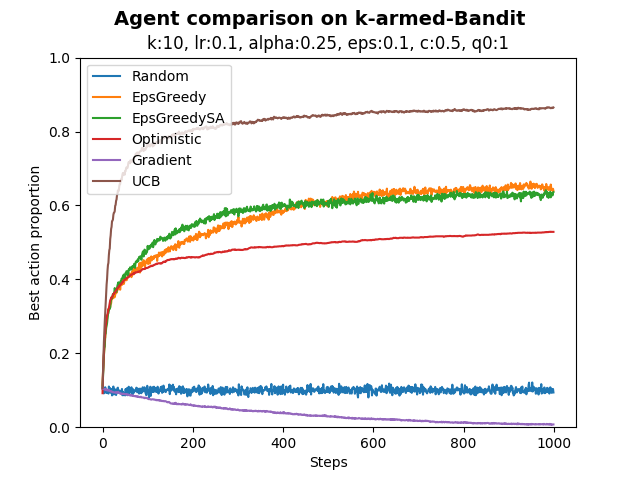
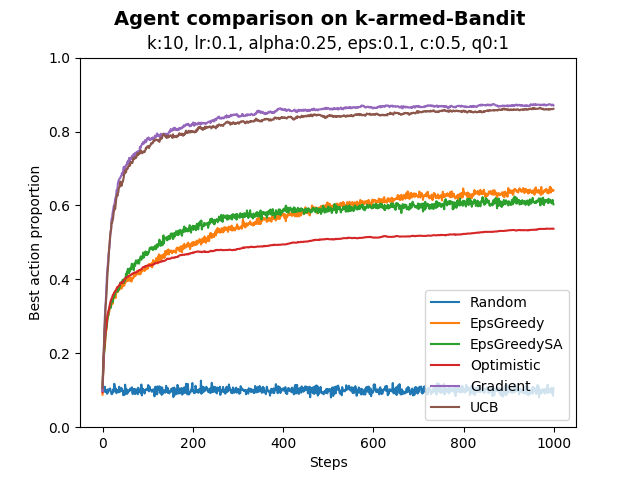
gradient

Changed region(s): [[0.1562, 0.5938, 0.875, 0.9062], [0.1562, 0.375, 0.875, 0.7188], [0.125, 0.125, 0.875, 0.4688]]

diff --git a/lab_session1/bandits/agents.py b/lab_session1/bandits/agents.py
@@ -7,7 +7,8 @@ An example can be seen on the Bandit_Agent and Random_Agent classes.
 """
 # -*- coding: utf-8 -*-
 import numpy as np
-from bandits.utils import softmax, my_random_choice
+from utils import softmax, my_random_choice
+
 
 class Bandit_Agent(object):
     """
@@ -18,7 +19,8 @@ class Bandit_Agent(object):
     The minimum requirement to instantiate a child class of Bandit_Agent
     is that it implements the act() method (see Random_Agent).
     """
-    def __init__(self, k:int, **kwargs):
+
+    def __init__(self, k: int, **kwargs):
         """
         Simply stores the number of arms of the Bandit problem.
         The __init__() method handles hyperparameters.
@@ -40,7 +42,7 @@ class Bandit_Agent(object):
         """
         pass
 
-    def learn(self, a:int, r:float):
+    def learn(self, a: int, r: float):
         """
         Learning method. The agent learns that action a yielded reward r.
         Parameters
@@ -62,11 +64,13 @@ class Bandit_Agent(object):
         """
         raise NotImplementedError("Calling method act() in Abstract class Bandit_Agent")
 
+
 class Random_Agent(Bandit_Agent):
     """
     This agent doesn't learn, just acts purely randomly.
     Good baseline to compare to other agents.
     """
+
     def act(self):
         """
         Random action selection.
@@ -81,10 +85,10 @@ class Random_Agent(Bandit_Agent):
 class EpsGreedy_SampleAverage(Bandit_Agent):
     # TODO: implement this class following the formalism above.
     # This class uses Sample Averages to estimate q; others are non stationary.
-    def __init__(self, k:int, lr:float, alpha:float, eps:float, c:float, q0:float, **kwargs):
+    def __init__(self, k: int, lr: float, alpha: float, eps: float, c: float, q0: float, **kwargs):
         self.k = k
         keys = [i for i in range(self.k)]
-        self.q = { key: 0 for key in keys}
+        self.q = {key: 0 for key in keys}
         self.n = {key: 1 for key in keys}
         self.eps = eps
 
@@ -93,8 +97,8 @@ class EpsGreedy_SampleAverage(Bandit_Agent):
         self.q = {key: 0 for key in keys}
         self.n = {key: 1 for key in keys}
 
-    def learn(self, a:int, r:float):
-        self.q[a] = self.q[a] + (1.0/self.n[a])*(r-self.q[a])
+    def learn(self, a: int, r: float):
+        self.q[a] = self.q[a] + (1.0 / self.n[a]) * (r - self.q[a])
         self.n[a] += 1
 
     def act(self) -> int:
@@ -104,6 +108,7 @@ class EpsGreedy_SampleAverage(Bandit_Agent):
             return np.random.randint(low=0, high=7)
         else:
             return max(self.q, key=self.q.get)
+
 
 class EpsGreedy(Bandit_Agent):
     # TODO: implement this class following the formalism above.
@@ -159,7 +164,7 @@ class OptimisticGreedy(Bandit_Agent):
 
 class UCB(Bandit_Agent):
     # TODO: implement this class following the formalism above.
-    def __init__(self, k:int, lr:float, alpha:float, eps:float, c:float, q0:float, **kwargs):
+    def __init__(self, k: int, lr: float, alpha: float, eps: float, c: float, q0: float, **kwargs):
         self.k = k
         self.c = c
         keys = [i for i in range(self.k)]
@@ -174,8 +179,8 @@ class UCB(Bandit_Agent):
         self.q = {key: 0 for key in keys}
         self.n = {key: 1 for key in keys}
 
-    def learn(self, a:int, r:float):
-        self.q[a] = self.q[a] + (1.0/self.n[a])*(r-self.q[a])
+    def learn(self, a: int, r: float):
+        self.q[a] = self.q[a] + (1.0 / self.n[a]) * (r - self.q[a])
         self.t += 1
         self.n[a] += 1
 
@@ -191,12 +196,11 @@ class Gradient_Bandit(Bandit_Agent):
     # If you want this to run fast, use the my_random_choice function from
     # utils instead of np.random.choice to sample from the softmax
     # You can also find the softmax function in utils.
-    def __init__(self, k:int, lr:float, alpha:float, eps:float, c:float, q0:float, **kwargs):
+    def __init__(self, k: int, lr: float, alpha: float, eps: float, c: float, q0: float, **kwargs):
         self.k = k
         self.c = c
         self.alpha = alpha
         keys = [i for i in range(self.k)]
-        self.q = {key: 0 for key in keys}
         self.n = {key: 1 for key in keys}
         self.a = {key: 0 for key in keys}
         self.h = {key: 0 for key in keys}
@@ -206,22 +210,19 @@ class Gradient_Bandit(Bandit_Agent):
 
     def reset(self):
         keys = [i for i in range(self.k)]
-        self.q = {key: 0 for key in keys}
         self.n = {key: 1 for key in keys}
 
-    def learn(self, a:int, r:float):
-        self.q[a] = self.q[a] + (1.0/self.n[a])*(r-self.q[a])
+    def learn(self, a: int, r: float): #H-functies a->A
         ln = np.log(self.t)
         self.sum += r
-        AVG = self.sum/self.t
+        AVG = self.sum / self.t
         self.a[a] = self.q[a] + (self.c * np.sqrt(ln / self.n[a]))
-        self.h[a] = self.h[a] - self.alpha*(r-AVG)*softmax(a)
+        self.h[a] = self.h[a] - self.alpha * (r - AVG) * softmax(a)
         self.t += 1
         self.n[a] += 1
 
-    def act(self) -> int:
+    def act(self) -> int: #softmax
         for a in range(self.k):
             ln = np.log(self.t)
             self.a[a] = self.q[a] + (self.c * np.sqrt(ln / self.n[a]))
         return max(self.a, key=self.a.get)
-

diff --git a/lab_session1/bandits/launcher.py b/lab_session1/bandits/launcher.py
@@ -5,9 +5,9 @@ Complete the code wherever TODO is written.
 """
 # -*- coding: utf-8 -*-
 import numpy as np
-from bandits.utils import *
-from bandits.agents import *
-from bandits.bandit import *
+from utils import *
+from agents import *
+from bandit import *
 
 ## FUNCTIONS ===================================================================
 
